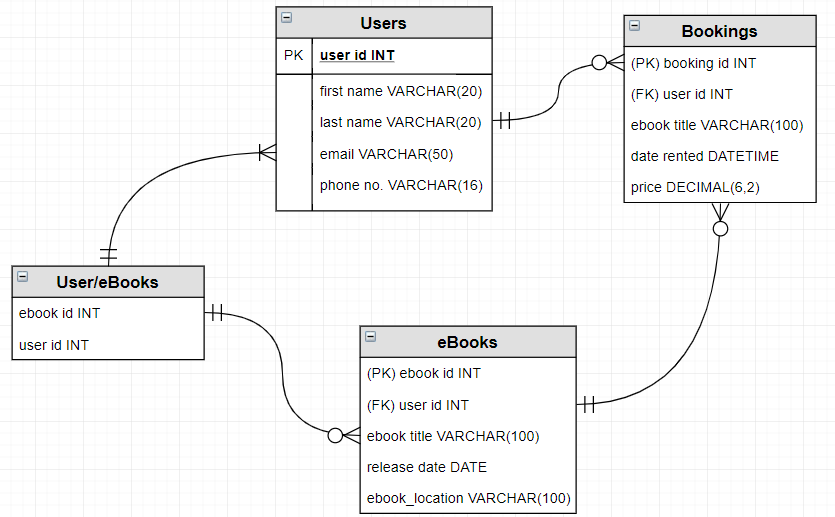
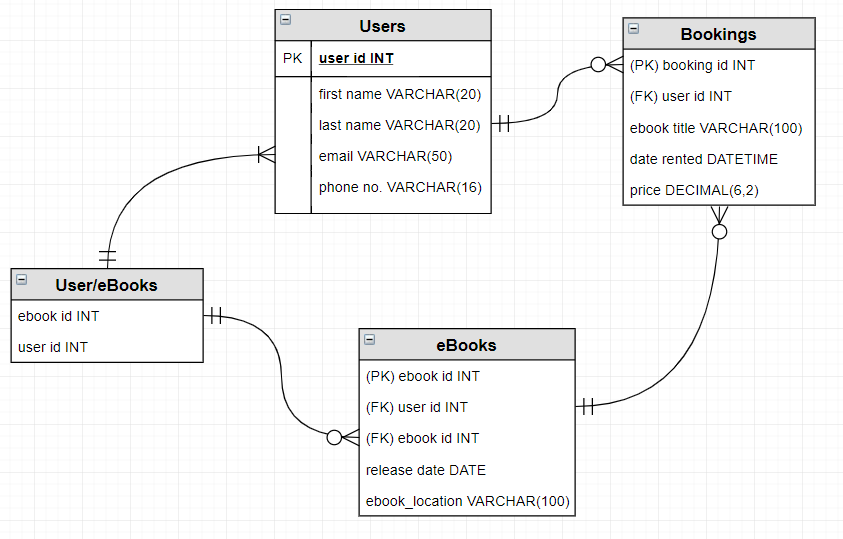
fixed id

diff --git a/README.md b/README.md
@@ -40,12 +40,12 @@
     CREATE TABLE bookings(
           booking_id INT NOT NULL IDENTITY(1,1) PRIMARY KEY,
           user_id INT NOT NULL,
-          ebook_title VARCHAR(100),
+          ebook_id INT NOT NULL,
           date_rented DATETIME,
           price DECIMAL(5,2),
           CONSTRAINT fk_booking_user
-              FOREIGN KEY (user_id)
-              REFERENCES users(user_id)
+              FOREIGN KEY (user_id, ebook_id)
+              REFERENCES users(user_id), ebooks(ebook_id)
       );
 
     CREATE TABLE ebooks(
